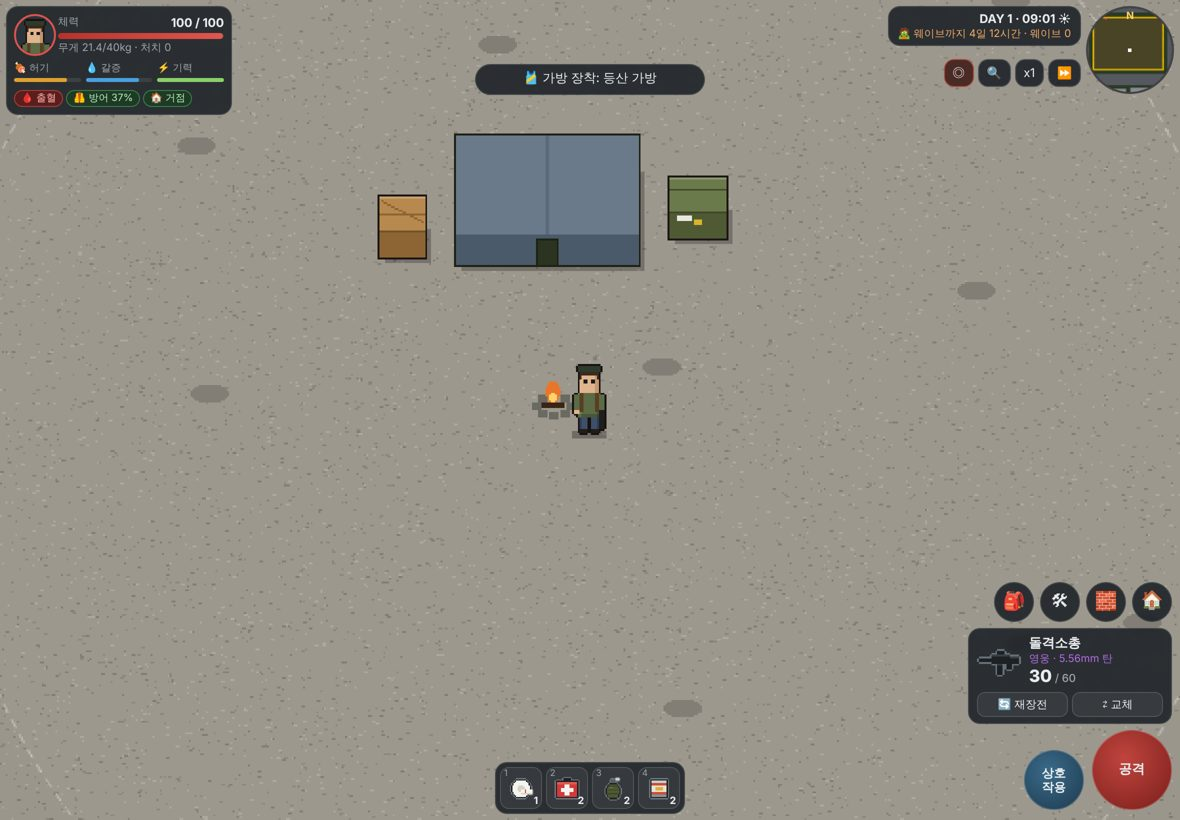
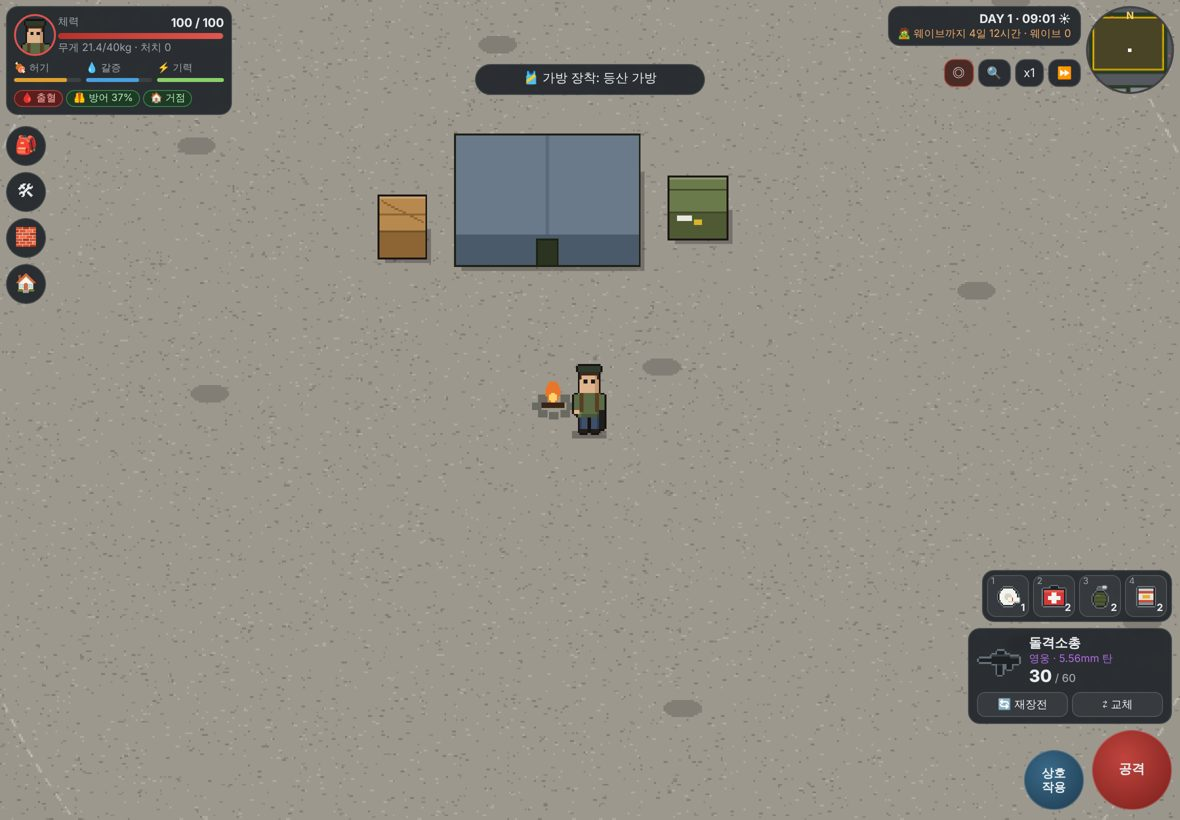
Quick slots above the weapon card; toolbar back on the left
Claude-Session: https://claude.ai/code/session_016VCq735jNXUkDd6pcyUyiK

Changed region(s): [[0.8237, 0.6707, 1.0, 0.7622], [0.3966, 0.9146, 0.5797, 1.0], [0.0, 0.1524, 0.061, 0.3659]]

diff --git a/index.html b/index.html
@@ -17,11 +17,11 @@ canvas#c{position:fixed;inset:0;width:100%;height:100%}
 #top{display:flex;gap:4px}#top button{padding:5px 8px;font-size:12px}#rng.on{background:#4a2a24;border-color:#ff6a5a88}
 button{font:inherit;color:var(--fg);background:var(--pn);border:1px solid #fff3;border-radius:10px;padding:8px 10px}
 button:disabled{opacity:.45}
-#rc{position:fixed;right:8px;bottom:calc(env(safe-area-inset-bottom,0px) + 96px);display:flex;flex-direction:column;align-items:flex-end;gap:6px}#sd{display:flex;flex-direction:row;gap:6px}.rb{width:44px;height:44px;border-radius:50%;padding:0;font-size:20px;display:grid;place-items:center}
+#rc{position:fixed;right:8px;bottom:calc(env(safe-area-inset-bottom,0px) + 96px);display:flex;flex-direction:column;align-items:flex-end;gap:6px}#sd{position:fixed;left:6px;bottom:calc(env(safe-area-inset-bottom,0px) + 10px);display:flex;flex-direction:column;gap:7px}.rb{width:44px;height:44px;border-radius:50%;padding:0;font-size:20px;display:grid;place-items:center}
 #wc{width:min(48vw,196px);padding:6px 8px;display:grid;grid-template-columns:44px 1fr;gap:3px 8px;align-items:center}
 #wc .wi{width:44px;height:44px;image-rendering:pixelated;grid-row:1;font-size:28px;text-align:center;line-height:44px}#wc .wn{font-weight:700;font-size:13px}#wc .wr{font-size:10.5px}#wc .am{font-size:17px;font-weight:800}#wc .am small{font-size:11px;color:var(--mut);font-weight:500}
 #wc .wb{grid-column:1/3;display:flex;gap:4px}#wc .wb span{flex:1;text-align:center;font-size:11px;padding:4px;border-radius:8px;background:#ffffff10;border:1px solid #ffffff22}
-#qk{position:fixed;left:6px;bottom:calc(env(safe-area-inset-bottom,0px) + 8px);display:flex;gap:4px;padding:4px}
+#qk{display:flex;gap:4px;padding:4px}
 .qs{width:40px;height:40px;border-radius:9px;background:#ffffff0e;border:1px solid #ffffff22;position:relative;display:grid;place-items:center}.qs img{width:30px;height:30px;image-rendering:pixelated}.qs.off img{opacity:.3}.qs .k{position:absolute;left:3px;top:0;font-size:9px;color:var(--mut)}.qs .c{position:absolute;right:3px;bottom:0;font-size:10px;font-weight:700}
 #r{position:fixed;right:8px;bottom:calc(env(safe-area-inset-bottom,0px) + 10px);display:flex;gap:8px;align-items:flex-end}
 .big{width:74px;height:74px;border-radius:50%;font-weight:700;padding:0}#atk{background:radial-gradient(circle at 40% 35%,#c0443e,#7a1e1a);width:80px;height:80px}#act{background:radial-gradient(circle at 40% 35%,#3a6a8a,#1e3a4e);width:60px;height:60px;font-size:12px;line-height:1.15}
@@ -54,7 +54,7 @@ button:disabled{opacity:.45}
  #mmw{grid-area:mm;width:84px;height:84px}#tp{grid-area:tp}#top{grid-area:top}
  #msg{top:calc(env(safe-area-inset-top,0px) + 64px);max-width:calc(100vw - 520px);min-width:200px}
  .rb{width:40px;height:40px;font-size:18px}
- #qk{left:50%;transform:translateX(-50%);bottom:calc(env(safe-area-inset-bottom,0px) + 6px)}
+ #sd{left:max(6px,env(safe-area-inset-left,0px));top:calc(env(safe-area-inset-top,0px) + 126px);bottom:auto;gap:6px}
  #rc{right:max(8px,env(safe-area-inset-right,0px))}#wc{width:186px}
  #r{right:max(8px,env(safe-area-inset-right,0px))}
  #bm{left:auto;right:0;top:0;bottom:0;width:min(500px,58vw);max-height:none;border-radius:16px 0 0 16px;border-top:0;border-left:1px solid #fff2;padding:10px 12px calc(env(safe-area-inset-bottom,0px) + 10px) 12px}
@@ -63,7 +63,7 @@ button:disabled{opacity:.45}
 }
 @media (orientation:landscape) and (max-height:420px){
  #st{grid-template-columns:32px 1fr;padding:5px;gap:4px;width:200px}#st .av{width:32px;height:32px}
- #rc{bottom:calc(env(safe-area-inset-bottom,0px) + 86px);gap:4px}.rb{width:36px;height:36px;font-size:16px}.big{width:66px;height:66px}#atk{width:72px;height:72px}#act{width:54px;height:54px}
+ #rc{bottom:calc(env(safe-area-inset-bottom,0px) + 86px);gap:4px}#sd{top:calc(env(safe-area-inset-top,0px) + 104px);gap:5px}.qs{width:36px;height:36px}.qs img{width:26px;height:26px}.big{width:66px;height:66px}#atk{width:72px;height:72px}#act{width:54px;height:54px}
 }
 @media (orientation:portrait) and (max-width:390px){#st{width:44vw}#tp{max-width:150px;font-size:10px}#tp b{font-size:11px}#mmw{width:84px;height:84px}}
 @media (orientation:landscape) and (max-width:700px){#tp .w{display:none}#msg{max-width:60vw;top:auto;bottom:calc(env(safe-area-inset-bottom,0px) + 110px)}}
@@ -73,7 +73,7 @@ button:disabled{opacity:.45}
 <div id="tr"><div id="mmw" style="display:none"><canvas id="mm2" width="96" height="96"></canvas><span class="n">N</span></div><div id="tp" class="g"></div><div id="top"><button id="rng" class="on" title="공격 사거리 (V)">◎</button><button id="zm">🔍</button><button id="spd">x1</button><button id="skp">⏩</button></div></div>
 <div id="msg" class="g"></div><div id="pr" class="g" style="display:none"></div><div id="jb"><div id="jk"></div></div>
 
-<div id="rc"><div id="sd"><button class="g rb" id="bBag" title="가방 (I)">🎒</button><button class="g rb" id="cCr" title="제작 (C)">🛠</button><button class="g rb" id="bBd" title="바리케이드 (F)">🧱</button><button class="g rb" id="bse" style="display:none" title="거점 (B)">🏠</button></div><div id="wc" class="g"></div></div><div id="qk" class="g"></div>
+<div id="rc"><div id="qk" class="g"></div><div id="wc" class="g"></div></div><div id="sd"><button class="g rb" id="bBag" title="가방 (I)">🎒</button><button class="g rb" id="cCr" title="제작 (C)">🛠</button><button class="g rb" id="bBd" title="바리케이드 (F)">🧱</button><button class="g rb" id="bse" style="display:none" title="거점 (B)">🏠</button></div>
 <div id="r"><button class="big" id="act">상호<br>작용</button><button class="big" id="atk">공격</button></div>
 <div id="bm"></div>
 <div id="menu"><h1>PROJECT LEGACY</h1><small>고해상도 탑다운 좀비 생존 RPG<br>왼쪽 화면 드래그: 이동 · 건물에 들어가면 지붕이 열립니다<br>거점을 업그레이드하며 살아남으세요</small>

diff --git a/tools/test_layout.js b/tools/test_layout.js
@@ -8,7 +8,7 @@ for(const[name,w,h]of SIZES){const p=await b.newPage({viewport:{width:w,height:h
  await p.evaluate(()=>{localStorage.clear();start('S',false);const P=S.p;give({ar:1,a556:60,pistol:1,a9mm:30,antenna:1,medkit:2,grenade:2,vest:1,helmet:1,bag2:1});P.quick=['bandage','medkit','grenade','food'];P.as='prim';P.mag.ar=30;P.bleed=1;
   const o=W0.objs.find(o=>o.t=='crate'&&o.b==W0.b.findIndex(b=>b.kind=='base'))||W0.objs.find(o=>LOOTT[o.t]);});
  await p.waitForTimeout(3200);
- const ov=await p.evaluate(()=>{const ids=['st','dg','tr','rc','qk','r'];const rs=ids.map(id=>{const e=document.getElementById(id);if(!e||getComputedStyle(e).display=='none')return null;const r=e.getBoundingClientRect();return r.width&&r.height?{id,x:r.left,y:r.top,w:r.width,h:r.height}:null}).filter(Boolean);
+ const ov=await p.evaluate(()=>{const ids=['st','dg','tr','sd','rc','r'];const rs=ids.map(id=>{const e=document.getElementById(id);if(!e||getComputedStyle(e).display=='none')return null;const r=e.getBoundingClientRect();return r.width&&r.height?{id,x:r.left,y:r.top,w:r.width,h:r.height}:null}).filter(Boolean);
   const bad=[];for(let i=0;i<rs.length;i++)for(let j=i+1;j<rs.length;j++){const a=rs[i],c=rs[j];const ox=Math.min(a.x+a.w,c.x+c.w)-Math.max(a.x,c.x),oy=Math.min(a.y+a.h,c.y+c.h)-Math.max(a.y,c.y);if(ox>2&&oy>2)bad.push(a.id+'×'+c.id+' '+Math.round(ox)+'x'+Math.round(oy))}
   const off=rs.filter(r=>r.x<-1||r.y<-1||r.x+r.w>innerWidth+1||r.y+r.h>innerHeight+1).map(r=>r.id);
   const hud=rs.reduce((a,r)=>a+r.w*r.h,0)/(innerWidth*innerHeight);return{bad,off,hudCover:Math.round(hud*100)+'%'}});

diff --git a/layout-compare.html b/layout-compare.html
@@ -39,8 +39,8 @@ table{width:100%;border-collapse:collapse;font-size:13px}th,td{text-align:left;p
    <tr><td>상태창 (체력·허기·갈증·기력)</td><td>왼쪽 위</td><td>왼쪽 위 (작은 화면은 더 작게)</td></tr>
    <tr><td>미니맵 · 시간 · 웨이브</td><td>오른쪽 위에 세로로</td><td>오른쪽 위에 가로로 나란히</td></tr>
    <tr><td>건물 위험도</td><td>상태창 아래</td><td>상태창 오른쪽</td></tr>
-   <tr><td>가방 · 제작 · 바리케이드 · 거점 툴바</td><td>무기 카드 바로 위</td><td>무기 카드 바로 위</td></tr>
-   <tr><td>퀵슬롯</td><td>왼쪽 아래</td><td>아래 가운데</td></tr>
+   <tr><td>가방 · 제작 · 바리케이드 · 거점 툴바</td><td>왼쪽 아래 세로 줄</td><td>상태창 아래 왼쪽 세로 줄</td></tr>
+   <tr><td>퀵슬롯</td><td>무기 카드 바로 위</td><td>무기 카드 바로 위</td></tr>
    <tr><td>무기 카드 · 공격 · 상호작용</td><td>오른쪽 아래</td><td>오른쪽 아래</td></tr>
    <tr><td>가방 · 제작 · 거점 창</td><td>아래에서 올라옴</td><td>오른쪽 절반 패널</td></tr>
    <tr><td>시야</td><td>위아래로 넓게</td><td>좌우로 넓게 (확대 비율 자동)</td></tr>
